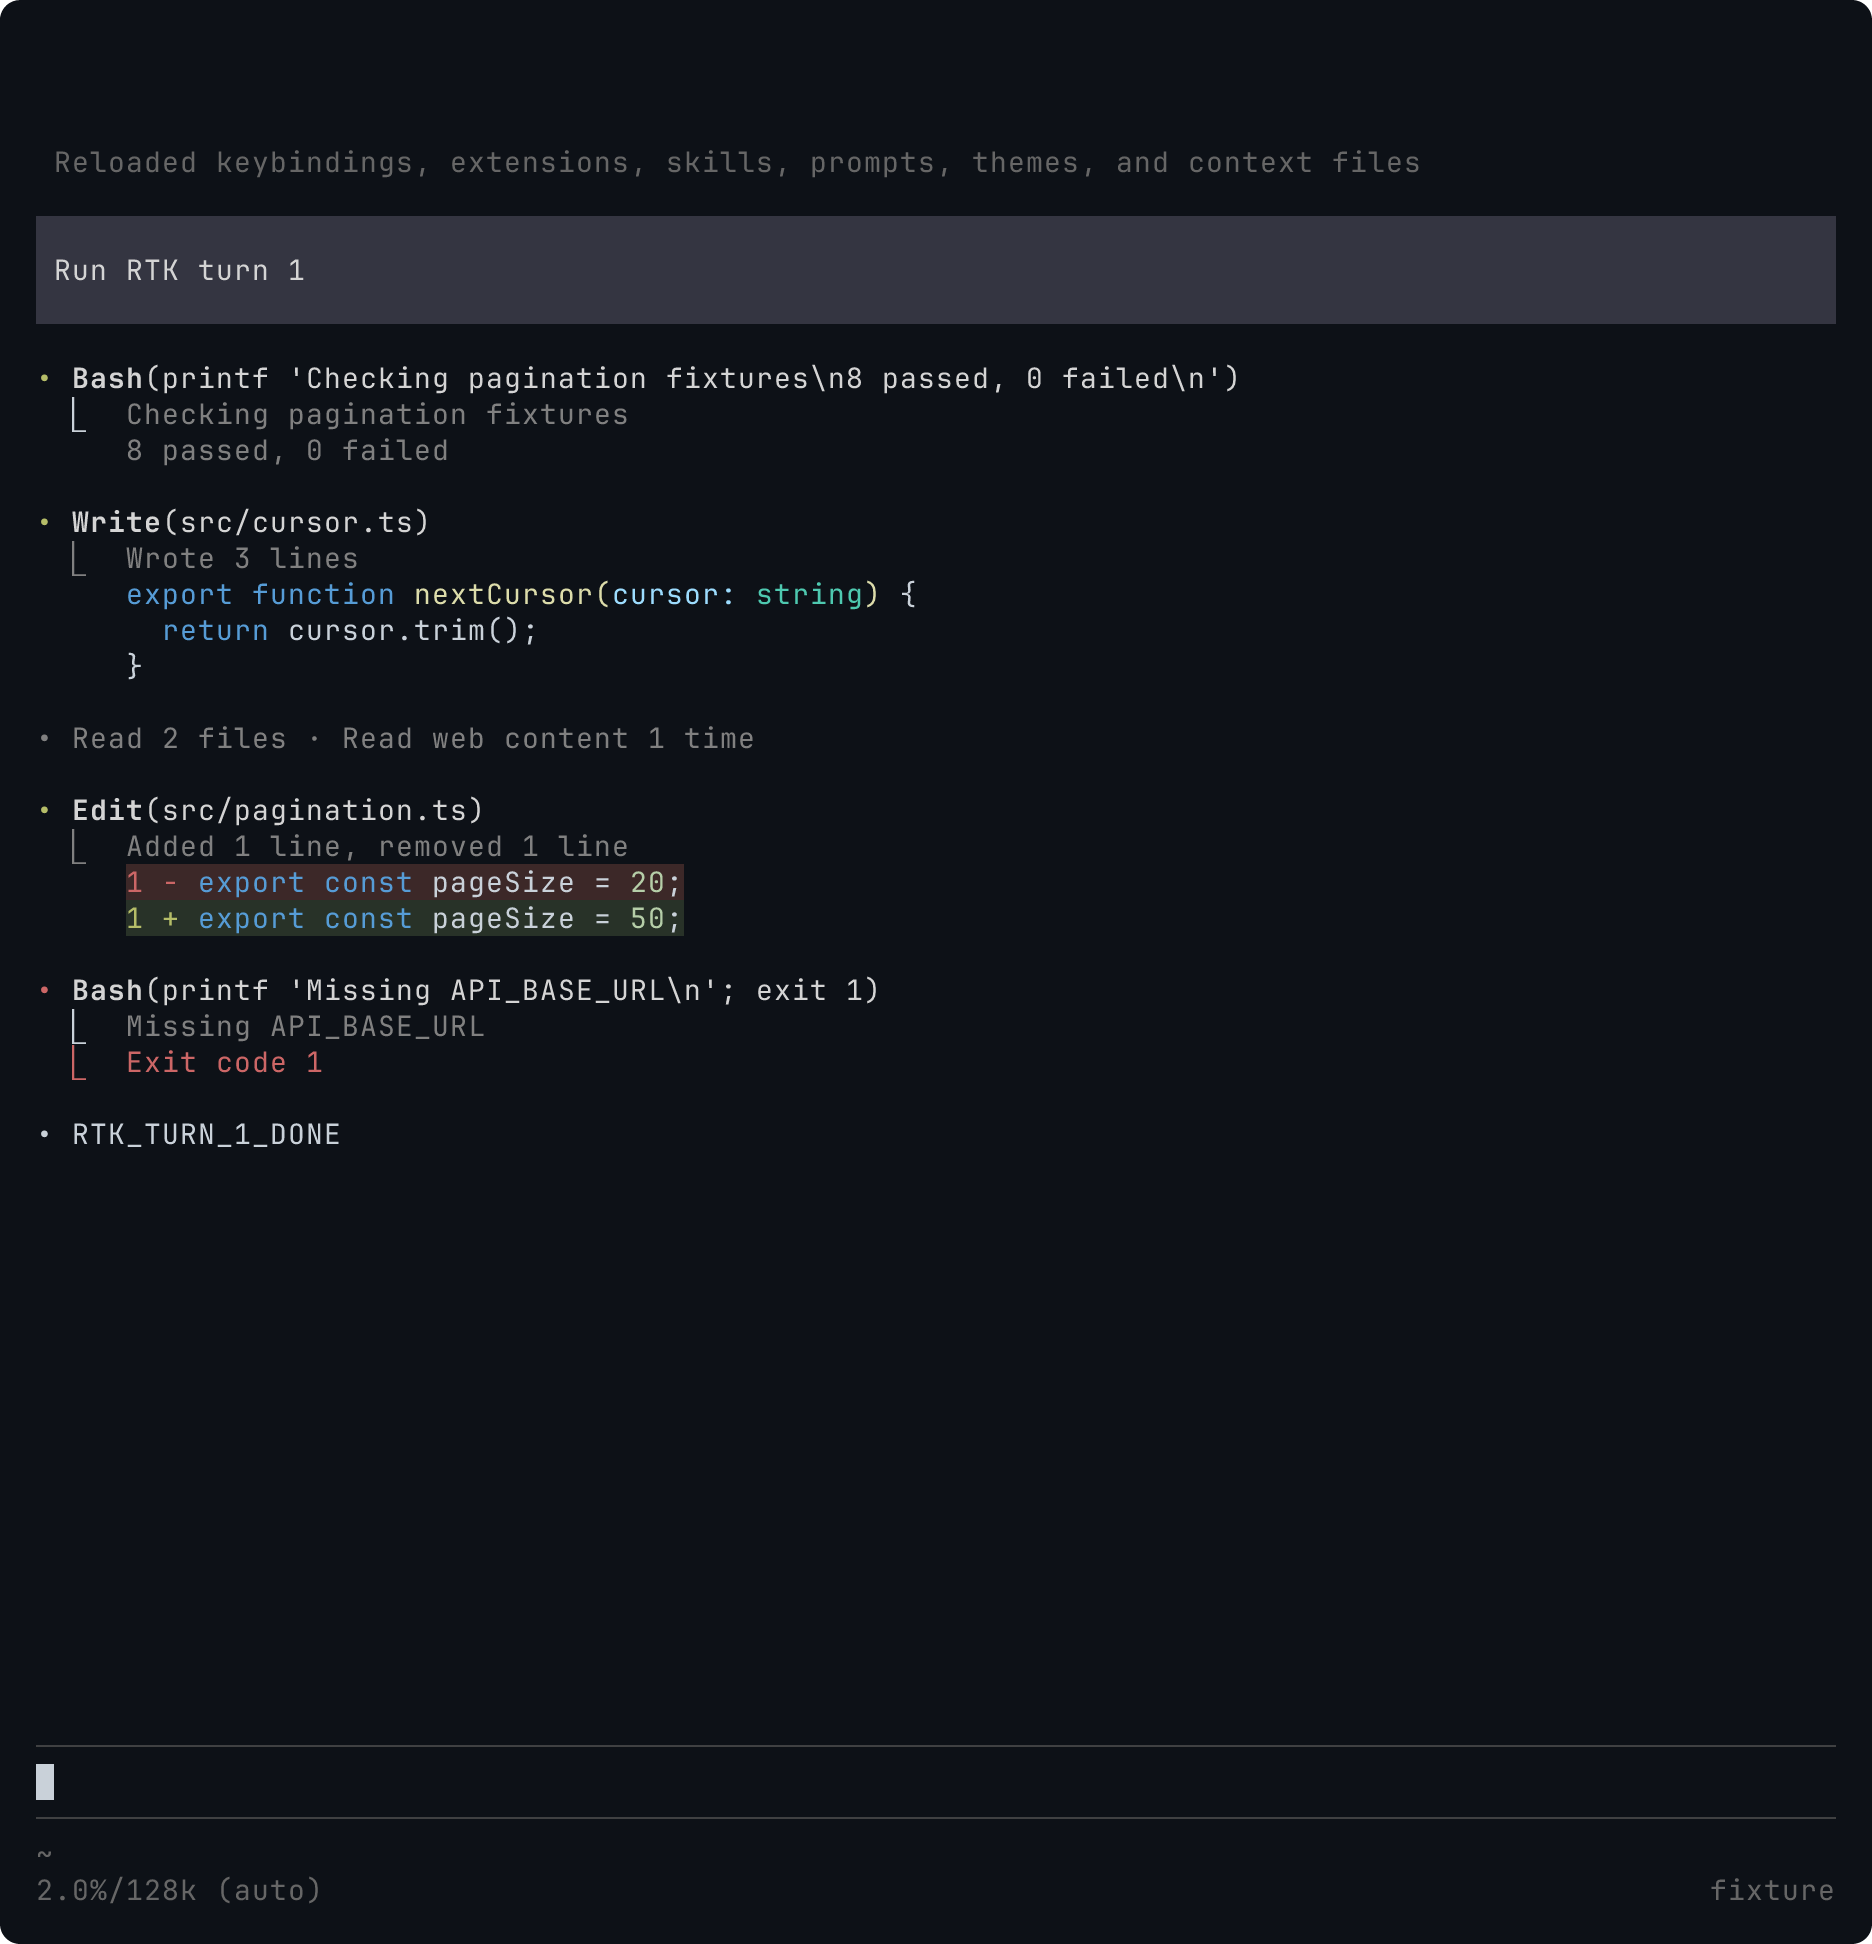
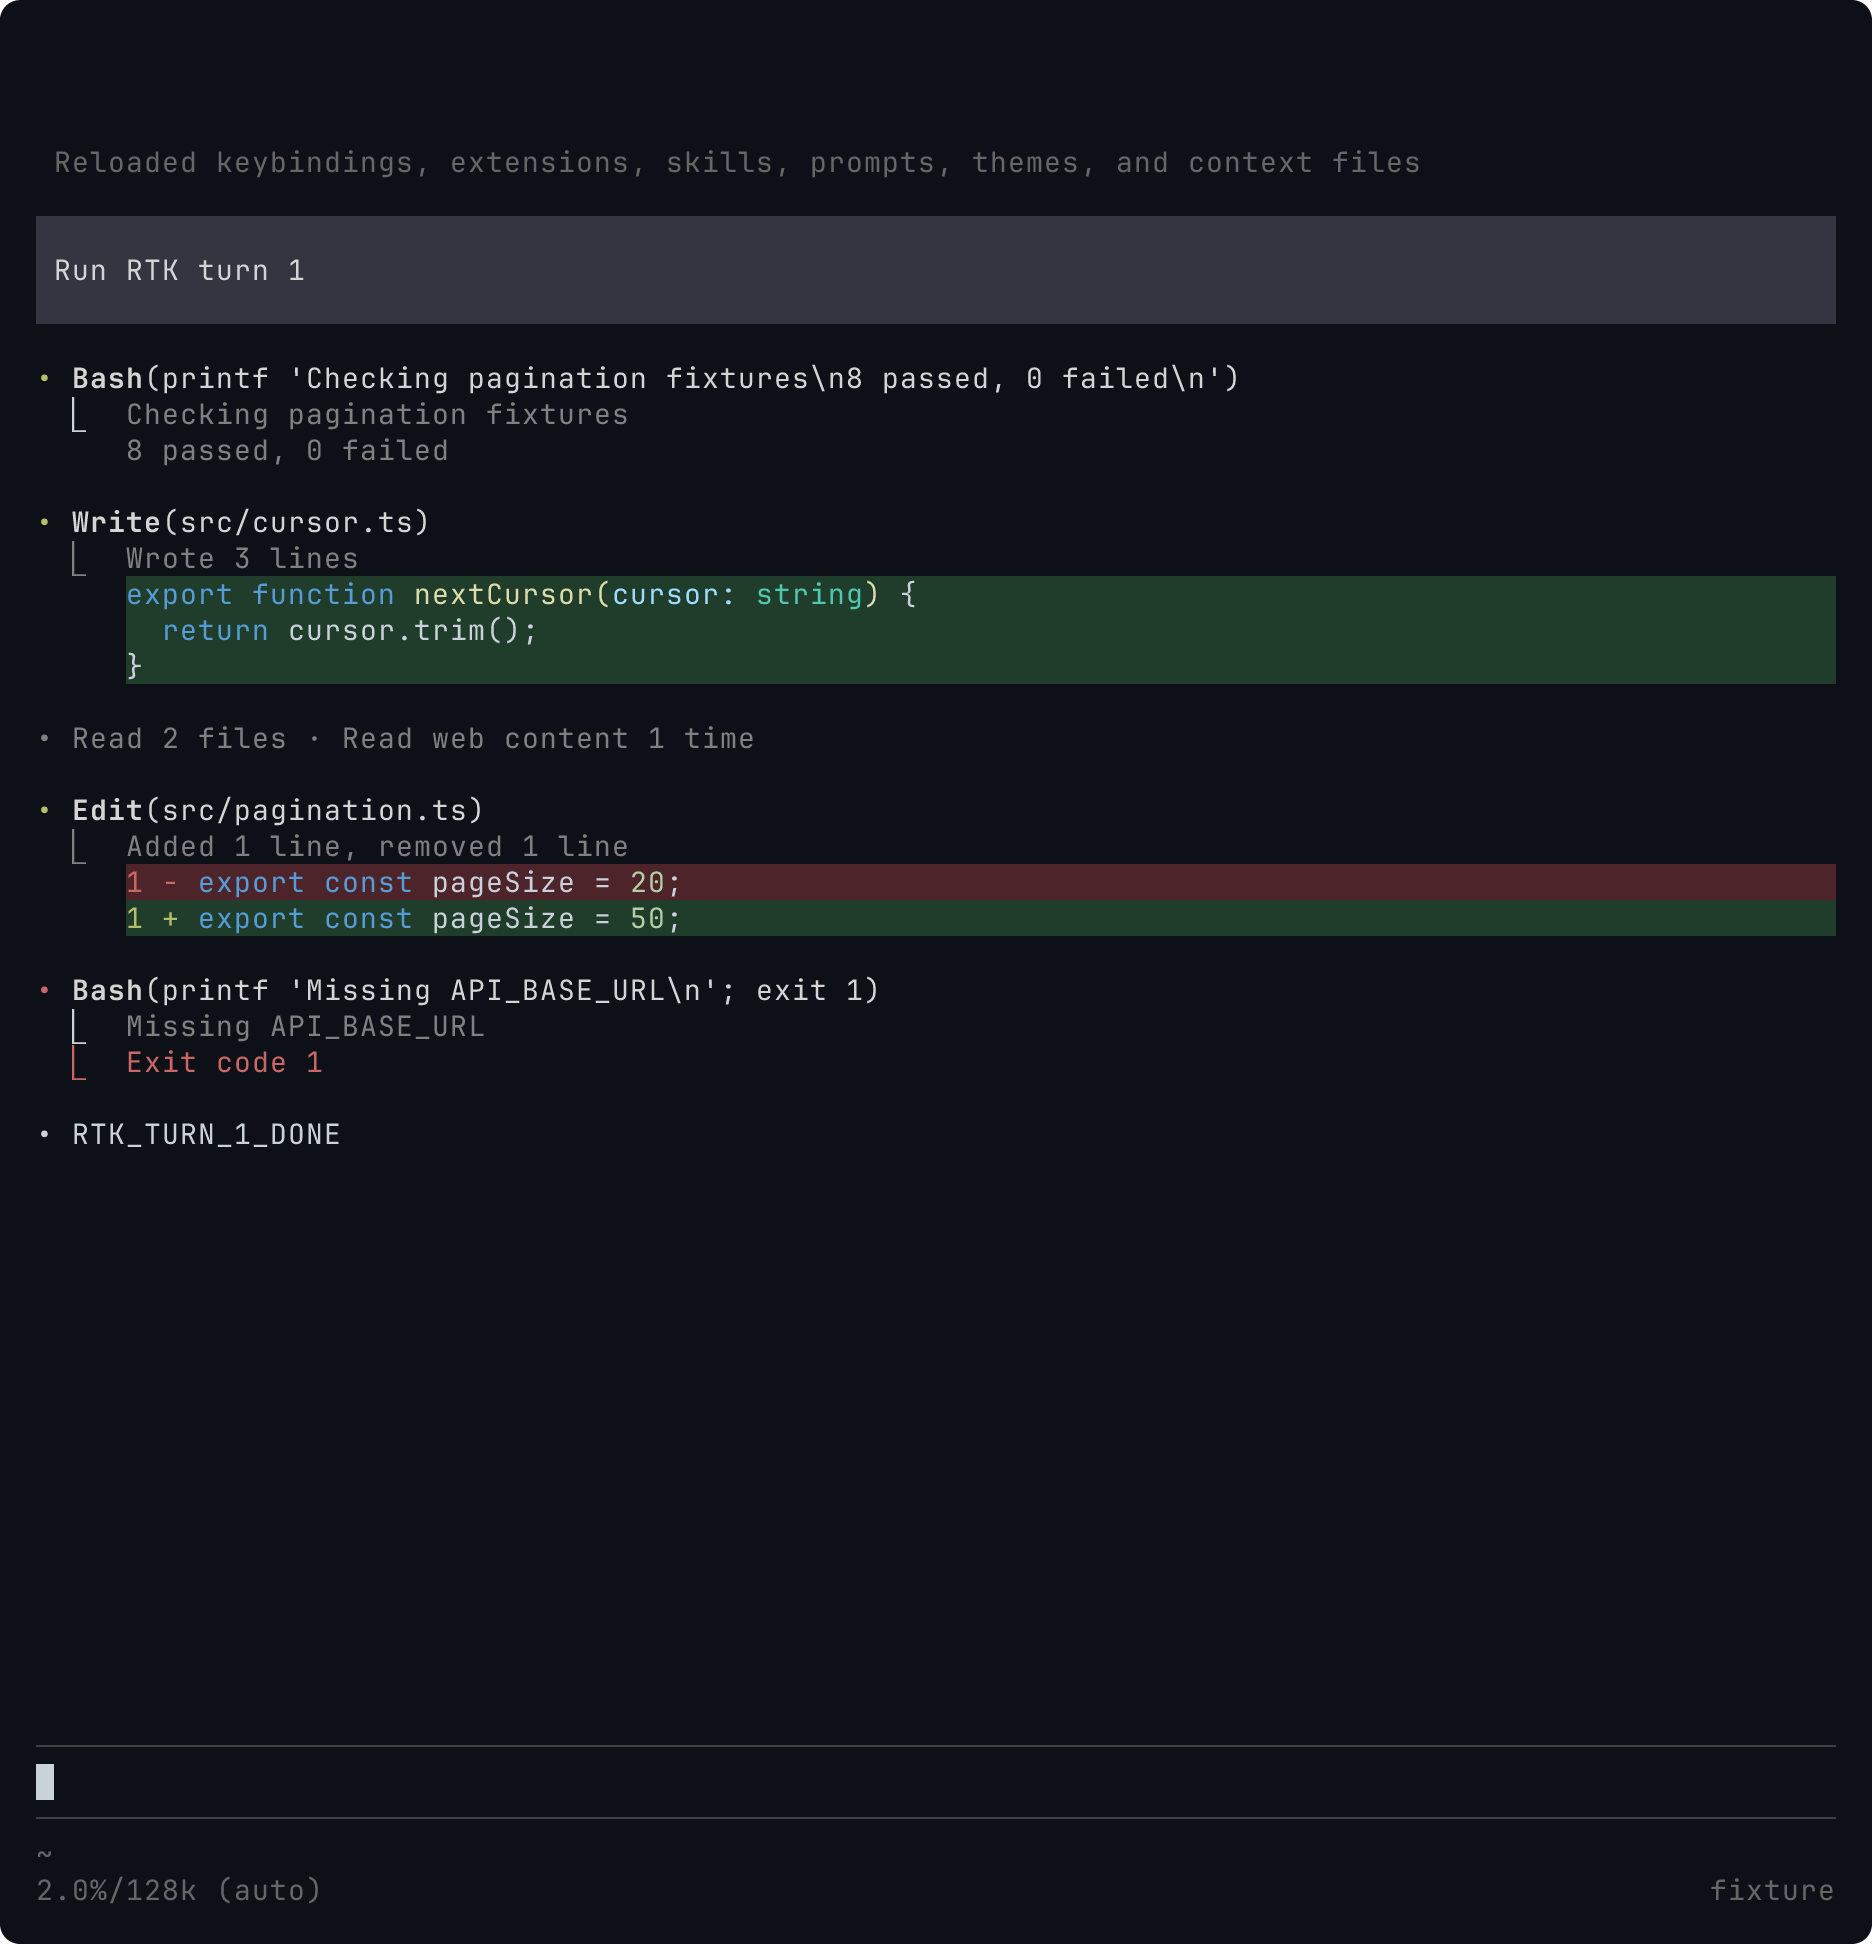
fix(ui): strengthen write and edit result backgrounds

Changed region(s): [[0.062, 0.2778, 0.9915, 0.3704], [0.3408, 0.4321, 0.9915, 0.4938]]

diff --git a/src/ui/code-background.ts b/src/ui/code-background.ts
@@ -1,0 +1,30 @@
+import {fileURLToPath} from 'node:url';
+import type {Theme} from '@earendil-works/pi-coding-agent';
+
+// Correct the faint stock fills only in the palettes we own or have verified.
+// Sourced custom themes and indexed-color terminals retain their colors.
+// Like native panel corrections, anonymous stock-name copies are indistinguishable.
+const fills = new Map([
+  ['\x1b[48;2;40;50;40m', '\x1b[48;2;32;60;42m'],
+  ['\x1b[48;2;60;40;40m', '\x1b[48;2;76;36;42m'],
+  ['\x1b[48;2;232;240;232m', '\x1b[48;2;212;245;208m'],
+  ['\x1b[48;2;240;232;232m', '\x1b[48;2;255;214;220m'],
+  ['\x1b[48;2;218;231;221m', '\x1b[48;2;212;245;208m'],
+  ['\x1b[48;2;236;214;222m', '\x1b[48;2;255;214;220m'],
+]);
+const lattePath = fileURLToPath(
+  new URL('../../themes/catppuccin-latte.json', import.meta.url),
+);
+
+export function codeBackground(theme: Theme, added: boolean, text: string) {
+  const color = added ? 'toolSuccessBg' : 'toolErrorBg';
+  const stock =
+    (!theme.sourcePath &&
+      !theme.sourceInfo &&
+      (theme.name === 'dark' || theme.name === 'light')) ||
+    theme.sourcePath === lattePath;
+  const ansi = theme.getBgAnsi(color);
+  const replacement = stock ? fills.get(ansi) : undefined;
+  const painted = theme.bg(color, text);
+  return replacement ? painted.replaceAll(ansi, replacement) : painted;
+}

diff --git a/src/ui/edit.ts b/src/ui/edit.ts
@@ -2,6 +2,7 @@ import type {ToolView} from './tool-lookup';
 import {Schema} from 'effect';
 import {ToolHeading} from './heading';
 import {ResultBlock} from './result-block';
+import {codeBackground} from './code-background';
 import type {UiSettings} from './settings';
 import {
   getLanguageFromPath,
@@ -12,6 +13,7 @@ import {
   truncateToWidth,
   wrapTextWithAnsi,
   stripTerminalSequences,
+  visibleWidth,
   type Component,
 } from '@earendil-works/pi-tui';
 
@@ -157,9 +159,13 @@ class EditDiff implements Component {
             const painted =
               line.kind === ' ' || this.settings.diffBackgrounds === false
                 ? content
-                : this.theme.bg(
-                    line.kind === '+' ? 'toolSuccessBg' : 'toolErrorBg',
-                    content,
+                : codeBackground(
+                    this.theme,
+                    line.kind === '+',
+                    content +
+                      ' '.repeat(
+                        Math.max(0, width - 5 - visibleWidth(content)),
+                      ),
                   );
             body.push(truncateToWidth(`     ${painted}`, width));
           }

diff --git a/src/ui/write.ts b/src/ui/write.ts
@@ -2,6 +2,7 @@ import type {ToolView} from './tool-lookup';
 import {Schema} from 'effect';
 import {ToolHeading} from './heading';
 import {ResultBlock} from './result-block';
+import {codeBackground} from './code-background';
 import type {UiSettings} from './settings';
 import {
   getLanguageFromPath,
@@ -12,6 +13,7 @@ import {
   wrapTextWithAnsi,
   truncateToWidth,
   stripTerminalSequences,
+  visibleWidth,
   type Component,
 } from '@earendil-works/pi-tui';
 
@@ -77,7 +79,17 @@ class WrittenContent implements Component {
         ),
         width,
       ),
-      ...visible.map(line => truncateToWidth(`     ${line}`, width)),
+      ...visible.map(line => {
+        const painted =
+          this.settings.diffBackgrounds === false
+            ? line
+            : codeBackground(
+                this.theme,
+                true,
+                line + ' '.repeat(Math.max(0, width - 5 - visibleWidth(line))),
+              );
+        return truncateToWidth(`     ${painted}`, width);
+      }),
     ];
     const hidden = this.body.length - visible.length;
     if (hidden > 0)

diff --git a/tests/system/ui-code-settings.test.ts b/tests/system/ui-code-settings.test.ts
@@ -30,6 +30,11 @@ test('Global code presentation controls change rendering while preserving writte
     expect(
       sourceStyle(highlighted, 'const before = 1;').foregrounds.size,
     ).toBeGreaterThan(1);
+    expect(
+      sourceStyle(highlighted, 'const before = 1;').backgrounds.has(
+        JSON.stringify(highlighted.frame.background),
+      ),
+    ).toBe(false);
     await host.invoke(
       'edit',
       JSON.stringify({
@@ -99,6 +104,9 @@ test('Global code presentation controls change rendering while preserving writte
         path: 'after.ts',
         edits: [{oldText: 'const value = 1;', newText: 'const value = 2;'}],
       }),
+    );
+    expect(sourceStyle(plainWrite, 'const value = 1;').backgrounds).toEqual(
+      new Set([JSON.stringify(plainWrite.frame.background)]),
     );
     const plainDiff = await host.terminal.screen.capture();
     expect(plainDiff.text).toMatch(/^     - const value = 1;\s*$/mu);

diff --git a/docs/ui.md b/docs/ui.md
@@ -36,7 +36,7 @@ Pi executes a validated copy of tool arguments but gives renderers the original 
 
 ## Write
 
-Write retains native file execution and shows the written source with Pi syntax highlighting. The compact result shows three rendered rows and a hidden-row count; native disclosure reveals the complete retained source. The result summary counts source lines rather than terminal wrapping. Error results retain the actual tool error text.
+Write retains native file execution and shows the written source with Pi syntax highlighting and a green background. The compact result shows three rendered rows and a hidden-row count; native disclosure reveals the complete retained source. The result summary counts source lines rather than terminal wrapping. Error results retain the actual tool error text.
 
 While model arguments are still streaming, the tool heading stays visible without claiming a completed write. Real-host tests check typing, resizing to 60 columns, completion and Esc before the arguments finish. The cancelled call creates no file, and the next turn can write normally.
 
@@ -45,6 +45,8 @@ CRLF content uses the same display normalization as native Write, so previews do
 ## Edit
 
 Edit renders the native result patch with one line-number gutter, removal numbers from the old file and addition/context numbers from the new file. It highlights the available old and new source separately within each hunk, adds semantic backgrounds and shows six rendered rows before disclosure. Wrapped rows do not repeat the gutter. The summary counts added and removed source lines. Opening an old result uses its recorded patch even if the file has since changed. Syntax context outside the recorded hunks is unavailable.
+
+The built-in dark/light palettes and the bundled Catppuccin Latte palette use stronger green/red fills within code results. Color extends to the right edge of the code area; context lines retain the terminal background. Custom palettes with source metadata and indexed-color terminals retain their supplied semantic fills. An anonymous in-memory theme using a stock name and identical colors cannot be distinguished from that stock theme. This does not change the global theme or terminal palette.
 
 ## Retrieval tools
 
@@ -110,7 +112,7 @@ Add `ui` to the global `pi-stuff.json` beside existing `web`, `tools` and `rtk` 
 
 `enabled` defaults to `true`; `false` leaves native tool rendering in place. All preview limits are nonnegative integers, with the defaults shown above. Zero hides the compact body while retaining the summary and hidden-row count. Limits do not change model-visible output, upstream truncation or expanded content.
 
-`codeHighlighting` controls syntax colors in Write and Edit. `diffLineNumbers` and `diffBackgrounds` independently control the diff gutter numbers and addition/removal backgrounds. All three default to `true`. Disabling them preserves source text, `+/-` markers and native execution.
+`codeHighlighting` controls syntax colors in Write and Edit. `diffLineNumbers` and `diffBackgrounds` independently control the diff gutter numbers and addition/removal backgrounds, including the Write preview background. All three default to `true`. Disabling them preserves source text, `+/-` markers and native execution.
 
 Open `/ui` for the global switch, retrieval grouping, preview limits and code presentation. The panel uses Pi's SettingsList and remains available when UI presentation is disabled. Settings are saved immediately; use `/reload` to apply them. A stale save is rejected if the file changed externally. Saving retains other configuration sections. Theme and Hide thinking remain in Pi's own settings.
 
